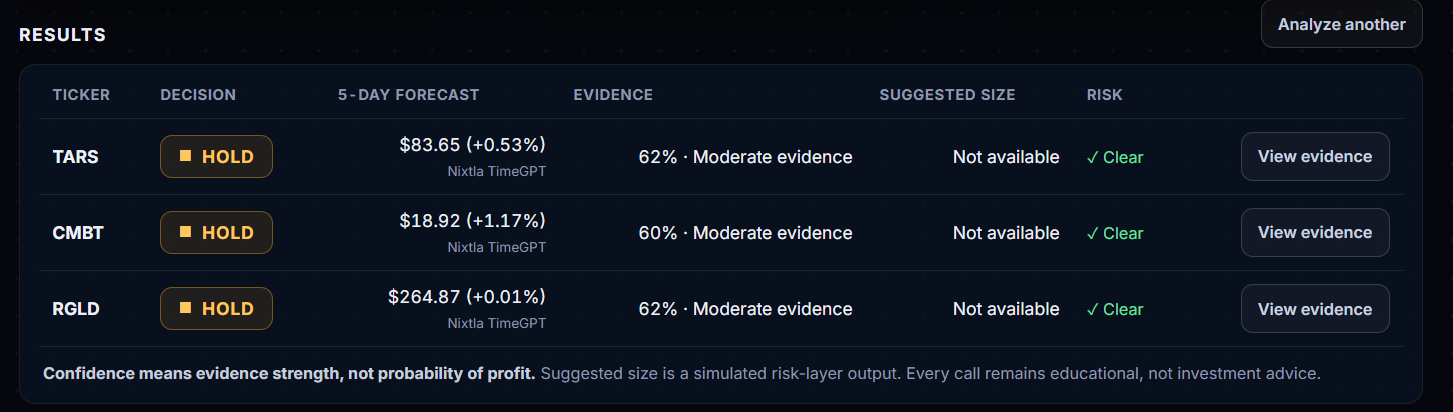
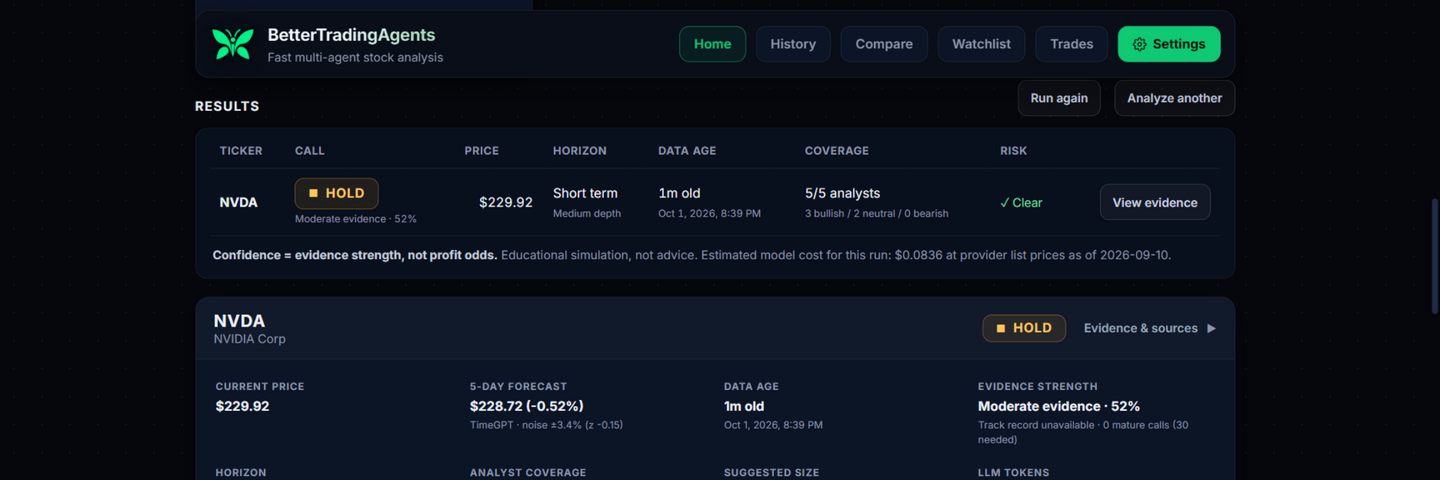
Refresh the README diagram and regenerate the screenshots at 3:1
The diagram now shows the settings layer feeding the pipeline and the autopilot loop re-entering it on a schedule with its guarded orders and the finished-session notification. The four screenshots were recaptured from the live app at 1440x480 (3:1) and show the new header nav, the live two-ticker run, the results table, and the trades page with the autopilot card.

diff --git a/README.md b/README.md
@@ -55,7 +55,10 @@ reference list and how each finding shapes the roadmap.
 
 ```mermaid
 flowchart LR
-    T["📈 Tickers<br/>up to five per run"] --> D["📡 Market data<br/>yfinance · Finnhub · Olostep · TimeGPT"]
+    SETTINGS["⚙ Settings<br/>every knob applied live<br/>secrets in the OS keychain"]
+    SETTINGS -.-> D["📡 Market data<br/>yfinance · Finnhub · Olostep · TimeGPT"]
+    SETTINGS -.-> PM
+    T --> D
 
     subgraph RESEARCH["🔬 Research: five analysts in parallel"]
         direction TB
@@ -86,6 +89,10 @@ flowchart LR
     ORDER --> BROKER["🛡 Alpaca paper adapter<br/>server-side guards · client_order_id idempotency"]
     BROKER --> PAPER["🟢 Alpaca paper account<br/>simulated fills, never live"]
     PAPER --> PORT["📊 Portfolio page<br/>equity curve · order lifecycle<br/>return + alpha vs SPY"]
+    PORT --> AUTO["🤖 Autopilot sessions<br/>scheduled · risk-gated · recorded"]
+    AUTO -.->|"candidates and held tickers<br/>on a schedule"| T
+    AUTO -.->|"orders through the same guards"| BROKER
+    AUTO --> NOTIFY["🔔 Desktop notification<br/>session finished"]
 ```
 
 ## Quick start
